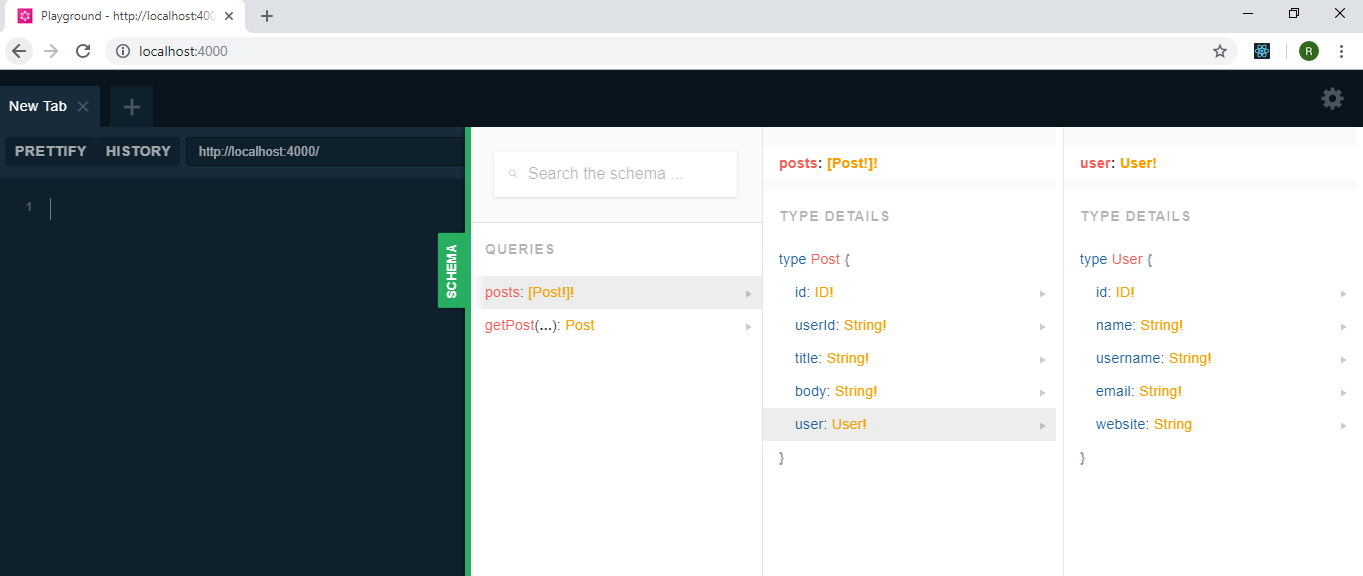
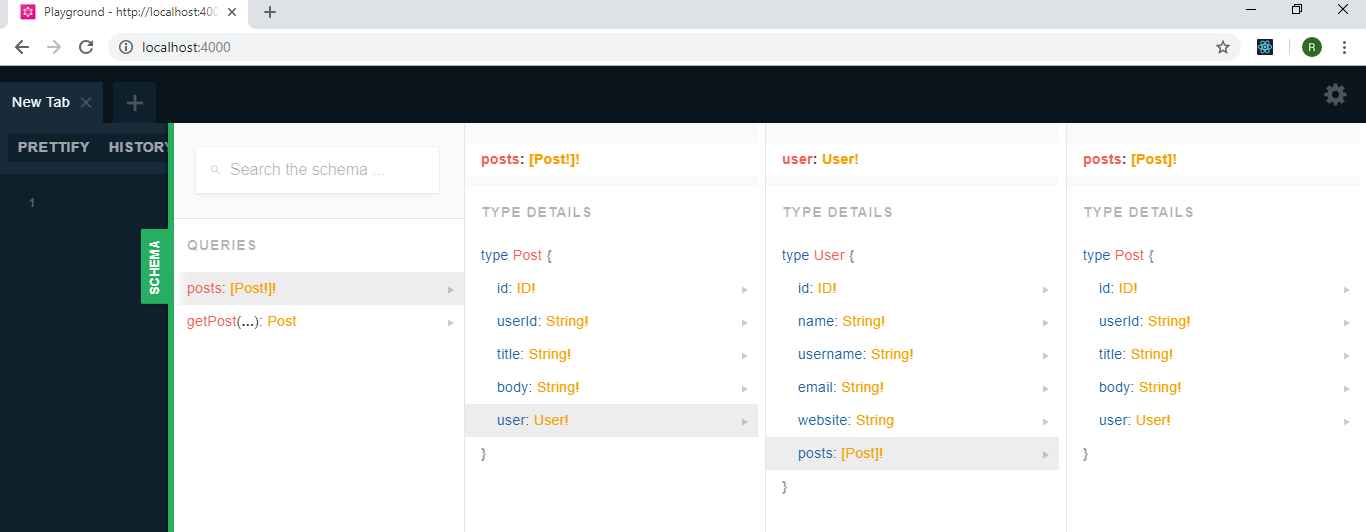
circular ref

diff --git a/graphql-server/resolvers.js b/graphql-server/resolvers.js
@@ -17,7 +17,15 @@ const resolvers = {
             const res = await fetch(`https://jsonplaceholder.typicode.com/users/${userId}`);
             return res.json();
         }
+    },
+    User: {
+        posts: async parent => {
+            const userId = parent.userId
+            const res = await fetch(`https://jsonplaceholder.typicode.com/users/${userId}/posts`);
+            return res.json();
+        }
     }
+
 }
 
 module.exports.Resolvers = resolvers;

diff --git a/README.md b/README.md
@@ -30,7 +30,7 @@ Node.js code to create GraphQL server on top of public REST API - https://jsonpl
 
 > Refer to the following screenshots to fire your **custom** queries and get the results from the server
 
-#### Check the schema by using 'Schema' tab on the right side of the screen
+#### Check the schema by using 'Schema' tab on the right side of the screen. Notice the circular reference of 'Post' in 'User' type.
 
 <img alt="Schema Information" src="https://github.com/singhrahulnet/GraphQL-Server.Node/blob/master/refImg/schema.PNG">
 
@@ -43,6 +43,9 @@ Node.js code to create GraphQL server on top of public REST API - https://jsonpl
 
 <img alt="Post by Id" src="https://github.com/singhrahulnet/GraphQL-Server.Node/blob/master/refImg/postById.PNG">
 
+#### Query 'Post->User->Posts'.
+
+<img alt="Post by Id" src="https://github.com/singhrahulnet/GraphQL-Server.Node/blob/master/refImg/circular.PNG">
 
 
 ## Support or Contact
